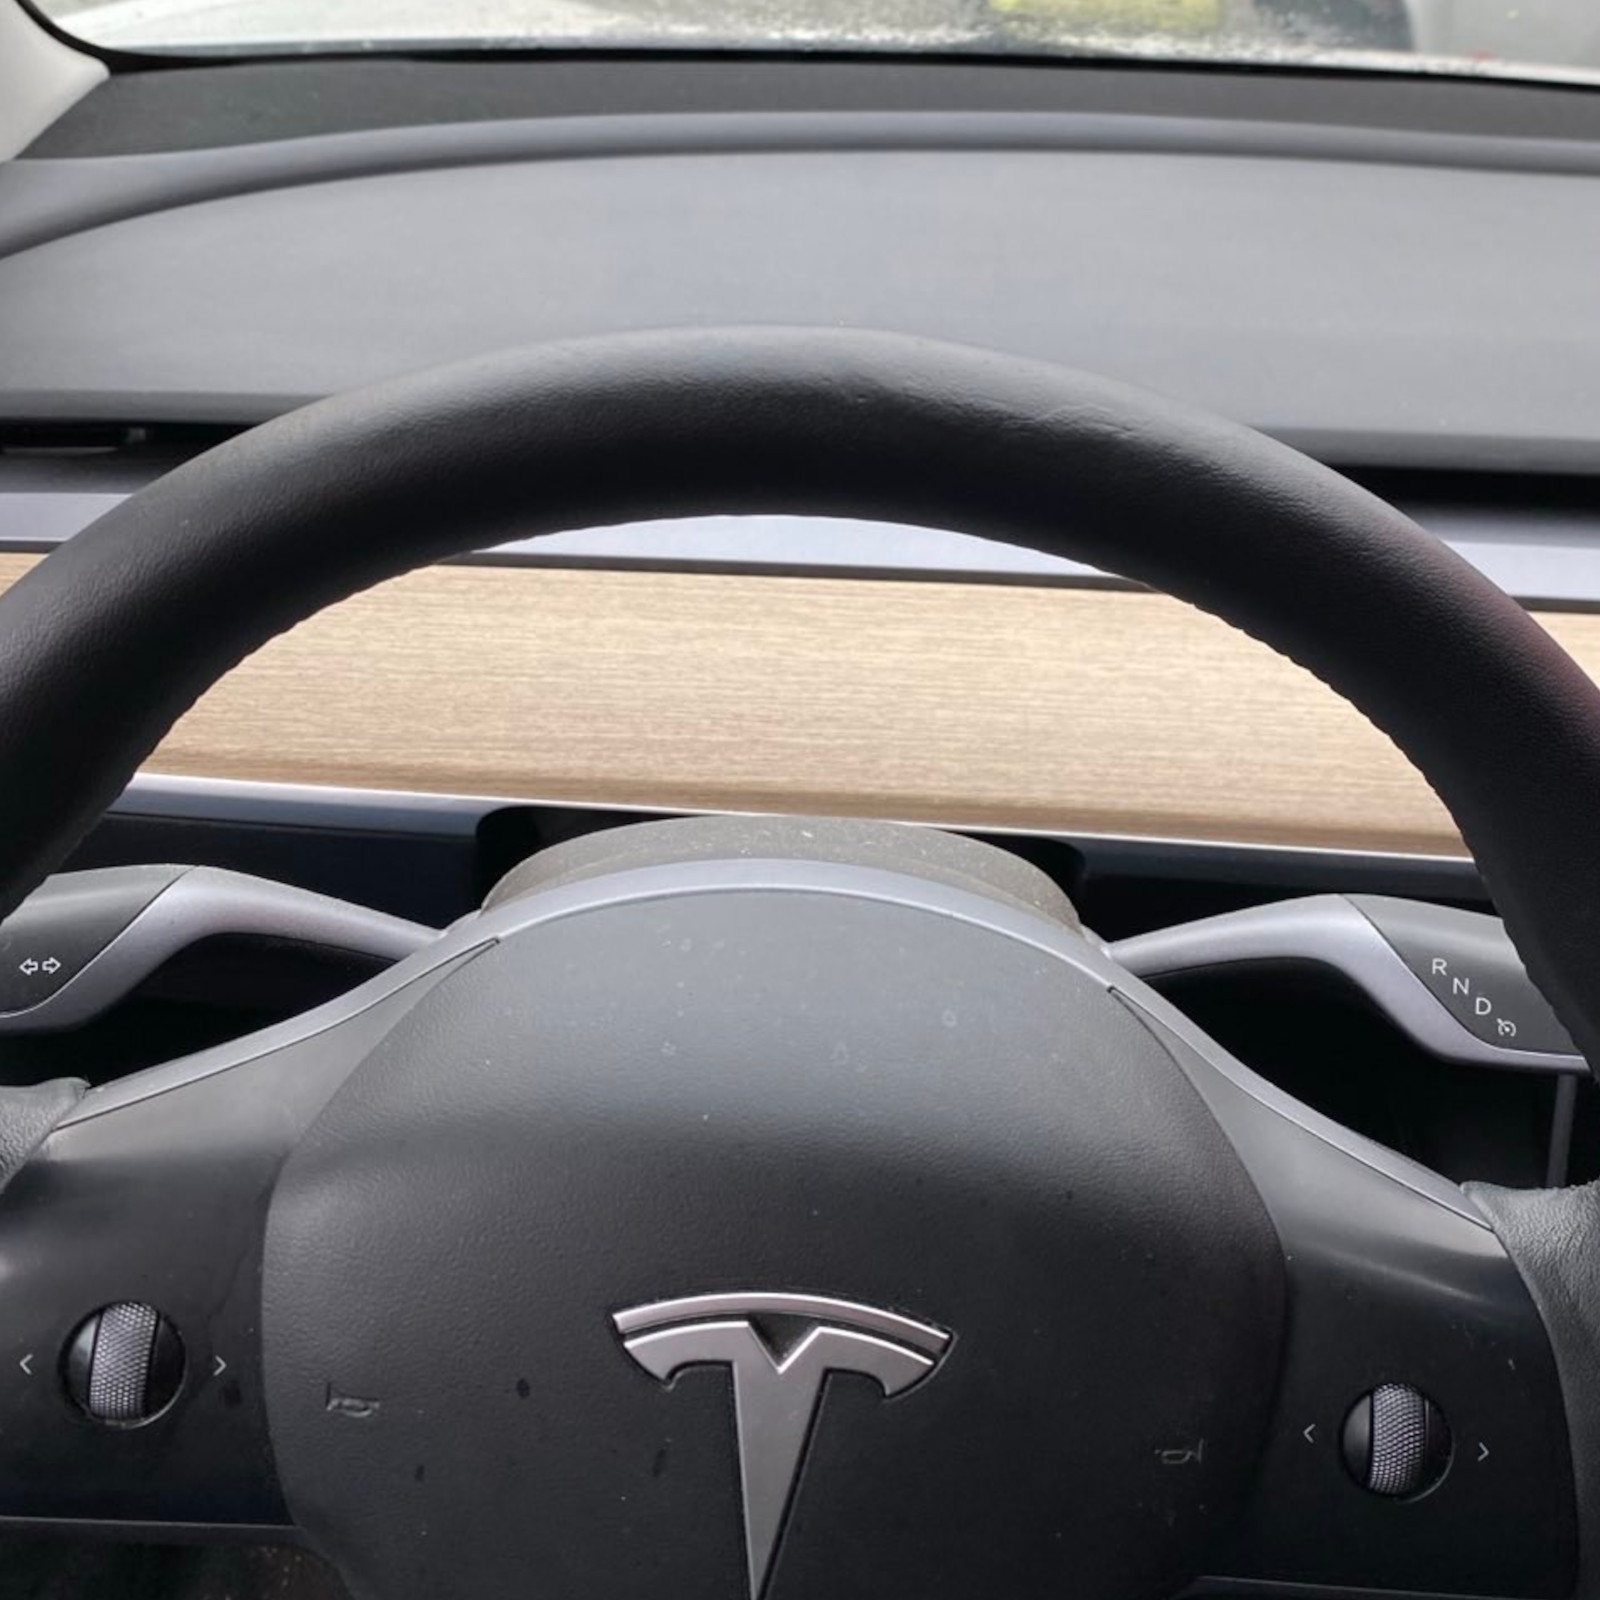
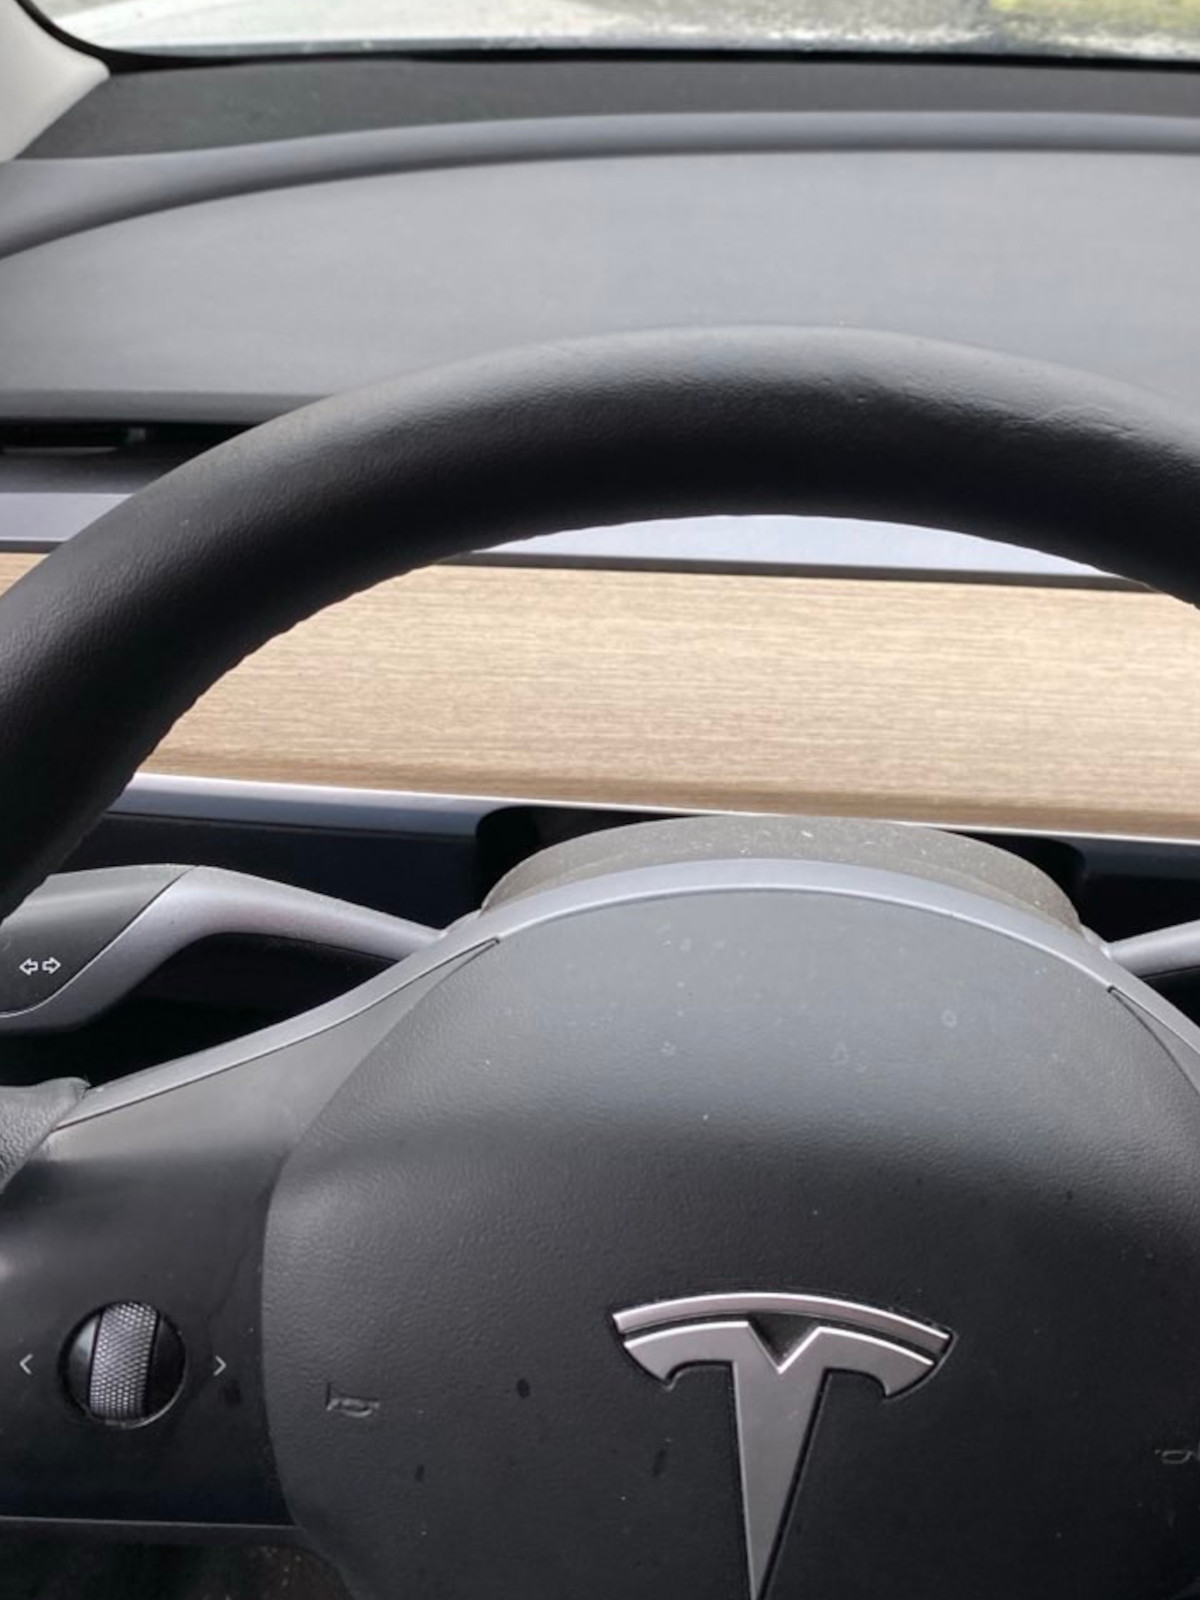
update photos and add arrows carousel

diff --git a/src/components/Carousel.jsx b/src/components/Carousel.jsx
@@ -3,49 +3,81 @@ import Slider from 'react-slick';
 import "slick-carousel/slick/slick.css"; 
 import "slick-carousel/slick/slick-theme.css";
 import './Carousel.css';
+import { FaArrowLeft, FaArrowRight } from 'react-icons/fa';
 
 
 
-const Carousel = () => {
-  const settings = {
-    dots: true,
-    infinite: true,
-    speed: 500,
-    slidesToShow: 3,
-    slidesToScroll: 1,
-    autoplay: true,
-    autoplaySpeed: 2000,
-    arrows: true,
+const SampleNextArrow = (props) => {
+    const { className, style, onClick } = props;
+    return (
+      <div
+        className={className}
+        
+        onClick={onClick}
+      >
+        <FaArrowRight style={{ color: 'black', fontSize: '30px' }} />
+      </div>
+    );
   };
+  
+  const SamplePrevArrow = (props) => {
+    const { className, style, onClick } = props;
+    return (
+      <div
+        className={className}
+        
+        onClick={onClick}
+      >
+        <FaArrowLeft style={{ color: 'black', fontSize: '30px' }} />
+      </div>
+    );
+  };
+  
+  const Carousel = () => {
+    const settings = {
+      dots: true,
+      infinite: true,
+      speed: 500,
+      slidesToShow: 3,
+      slidesToScroll: 1,
+      nextArrow: <SampleNextArrow />,
+      prevArrow: <SamplePrevArrow />,
+    };
 
   return (
     <section className="carousel__section">
       <h2>Our Products- Before and After</h2>
       <Slider {...settings}>
         <div className="carousel__item">
-          <img src={require('../images/tesla_before.jpeg')} alt="Item 1" />
-          <p>Before- Tesla</p>
+          <img src={require('../images/tesla_before.jpeg')} alt="Item tesla" />
+          <p>Before- Tesla Steering Wheel Damage</p>
         </div>
         <div className="carousel__item">
-          <img src={require('../images/tesla_after.jpeg')} alt="Item 2" />
-          <p>After- Tesla</p>
+          <img src={require('../images/tesla_after.jpeg')} alt="Item tesla2" />
+          <p>After- Tesla Steering Wheel Repaired</p>
         </div>
         <div className="carousel__item">
-          <img src={require('../images/img-3.jpeg')} alt="Item 3" />
-          <p>Product 3</p>
+          <img src={require('../images/img-1.jpeg')} alt="Item blackcouch" />
+          <p>Before-Leather Couch Damage</p>
         </div>
         <div className="carousel__item">
-          <img src={require('../images/img-4.jpeg')} alt="Item 4" />
-          <p>Product 4</p>
+          <img src={require('../images/img-1part2.jpeg')} alt="Item blackcouch2" />
+          <p>After-Leather Couch Damage Repaired</p>
         </div>
         <div className="carousel__item">
-          <img src={require('../images/img-5.jpeg')} alt="Item 5" />
-          <p>Product 5</p>
+          <img src={require('../images/img-4.jpeg')} alt="Carseat" />
+          <p>Before- Car Seat Damage</p>
+        </div>
+        <div className="carousel__item">
+          <img src={require('../images/img-4part2.jpeg')} alt="Carseat2" />
+          <p>After- Car Seat Repaired</p>
         </div>
         {/* Add more items as needed */}
       </Slider>
     </section>
   );
 };
+
+
 
 export default Carousel;

diff --git a/src/components/HeroSection.jsx b/src/components/HeroSection.jsx
@@ -7,7 +7,7 @@ function HeroSection() {
   return (
     <div className='hero-container'>
         <video src='/videos/video-1.mp4' autoPlay loop muted />
-        
+        <img src={require('../images/logo_final3.png')} alt="logo" />
         <h1>Mobile Automotive Interior Repair</h1>
         <p>Ask for a Quote!</p>
         <div className='hero-btns'>

diff --git a/src/components/HeroSection.css b/src/components/HeroSection.css
@@ -5,6 +5,13 @@
     position: fixed;
     z-index: -1;
   }
+
+  img {
+    width: 30%;
+    height: 30%;
+    position: center;
+
+  }
   
   .hero-container {
     /* background: url('/images/img-home.jpg') center center/cover no-repeat; */

diff --git a/src/components/pages/Home.jsx b/src/components/pages/Home.jsx
@@ -4,6 +4,7 @@ import HeroSection from '../HeroSection'
 import Carousel from '../Carousel';
 
 
+
 function Home () {
     return (
         <>

diff --git a/src/App.jsx b/src/App.jsx
@@ -15,6 +15,7 @@ import Carousel from './components/Carousel';
 
 
 
+
 function App() {
   return (
     <Router>

diff --git a/src/components/Carousel.css b/src/components/Carousel.css
@@ -27,3 +27,5 @@
   font-size: 1.2em;
   color: #555;
 }
+
+
